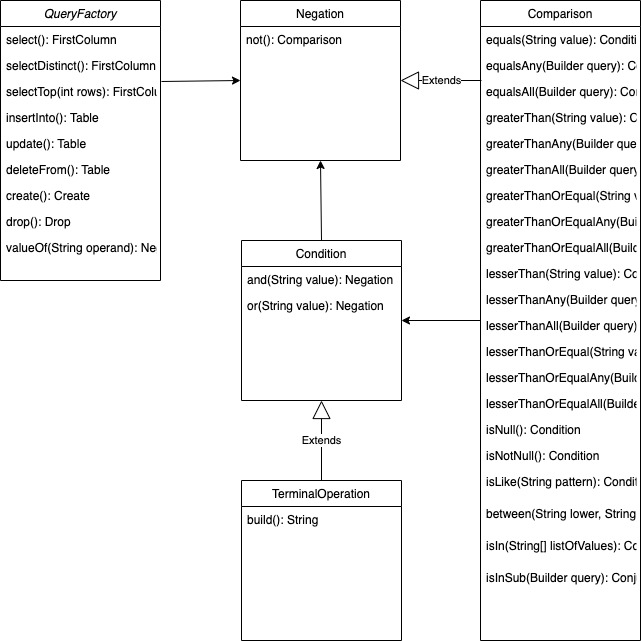
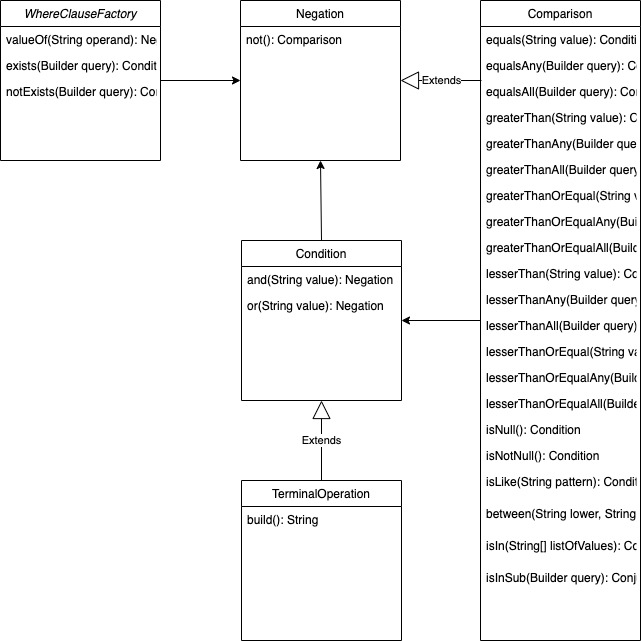
refactored WHERE clause builder to its own factory and added EXISTS operator

Changed region(s): [[0.0, 0.0, 0.2496, 0.312], [0.0, 0.3432, 0.2496, 0.4056]]

diff --git a/src/test/java/builder/statement/clause/where/ComparisonTest.java b/src/test/java/builder/statement/clause/where/ComparisonTest.java
@@ -8,7 +8,7 @@ import org.junit.Test;
 
 import java.sql.SQLException;
 
-import static factory.QueryFactory.valueOf;
+import static factory.WhereClauseFactory.*;
 import static junit.framework.Assert.assertEquals;
 
 public class ComparisonTest extends DatabaseTestBaseClass {
@@ -424,6 +424,34 @@ public class ComparisonTest extends DatabaseTestBaseClass {
                 .build();
 
         assertEquals("SELECT firstname FROM person WHERE lastname IN (SELECT * FROM student WHERE age > 20)", query);
+        assertThatQueryIsValidSQL(query);
+    }
+
+    @Test
+    public void testConditionExists() throws SQLException {
+        String query = this.table
+                .where(exists(QueryFactory
+                        .select()
+                        .column("*")
+                        .from().table("student")
+                        .where(valueOf("age").greaterThan(20))))
+                .build();
+
+        assertEquals("SELECT firstname FROM person WHERE EXISTS (SELECT * FROM student WHERE age > 20)", query);
+        assertThatQueryIsValidSQL(query);
+    }
+
+    @Test
+    public void testConditionNotExists() throws SQLException {
+        String query = this.table
+                .where(notExists(QueryFactory
+                        .select()
+                        .column("*")
+                        .from().table("student")
+                        .where(valueOf("age").greaterThan(20))))
+                .build();
+
+        assertEquals("SELECT firstname FROM person WHERE NOT EXISTS (SELECT * FROM student WHERE age > 20)", query);
         assertThatQueryIsValidSQL(query);
     }
 }

diff --git a/src/main/java/factory/WhereClauseFactory.java b/src/main/java/factory/WhereClauseFactory.java
@@ -1,0 +1,20 @@
+package factory;
+
+import builder.Builder;
+import builder.clause.where.Condition;
+import builder.clause.where.Negation;
+
+public class WhereClauseFactory {
+
+    public static Negation valueOf(String operand) {
+        return new Negation(new StringBuilder(" WHERE " + operand));
+    }
+
+    public static Condition exists(Builder query) {
+        return new Condition(new StringBuilder(" WHERE EXISTS (" + query.build() + ")"));
+    }
+
+    public static Condition notExists(Builder query) {
+        return new Condition(new StringBuilder(" WHERE NOT EXISTS (" + query.build() + ")"));
+    }
+}

diff --git a/src/main/java/factory/QueryFactory.java b/src/main/java/factory/QueryFactory.java
@@ -39,10 +39,6 @@ public class QueryFactory {
         return new Drop(new StringBuilder("DROP "));
     }
 
-    public static Negation valueOf(String operand) {
-        return new Negation(new StringBuilder(" WHERE " + operand));
-    }
-
     private static FirstColumn selectClause(String clause) {
         return new FirstColumn(new StringBuilder(clause));
     }

diff --git a/src/test/java/builder/PerformanceTest.java b/src/test/java/builder/PerformanceTest.java
@@ -7,7 +7,7 @@ import org.junit.Test;
 import org.slf4j.Logger;
 import org.slf4j.LoggerFactory;
 
-import static factory.QueryFactory.valueOf;
+import static factory.WhereClauseFactory.valueOf;
 import static org.junit.Assert.assertEquals;
 import static org.junit.Assert.assertTrue;
 

diff --git a/src/test/java/builder/statement/clause/where/ConditionTest.java b/src/test/java/builder/statement/clause/where/ConditionTest.java
@@ -8,7 +8,7 @@ import org.junit.Test;
 
 import java.sql.SQLException;
 
-import static factory.QueryFactory.valueOf;
+import static factory.WhereClauseFactory.valueOf;
 import static junit.framework.Assert.assertEquals;
 
 public class ConditionTest extends DatabaseTestBaseClass {

diff --git a/src/test/java/builder/statement/clause/where/NegationTest.java b/src/test/java/builder/statement/clause/where/NegationTest.java
@@ -8,7 +8,7 @@ import org.junit.Test;
 
 import java.sql.SQLException;
 
-import static factory.QueryFactory.valueOf;
+import static factory.WhereClauseFactory.valueOf;
 import static junit.framework.Assert.assertEquals;
 
 public class NegationTest extends DatabaseTestBaseClass {

diff --git a/src/test/java/builder/statement/select/table/TableTest.java b/src/test/java/builder/statement/select/table/TableTest.java
@@ -8,7 +8,7 @@ import org.junit.Test;
 
 import java.sql.SQLException;
 
-import static factory.QueryFactory.valueOf;
+import static factory.WhereClauseFactory.valueOf;
 import static junit.framework.Assert.assertEquals;
 
 public class TableTest extends DatabaseTestBaseClass {

diff --git a/src/test/java/builder/statement/select/order/GroupByTest.java b/src/test/java/builder/statement/select/order/GroupByTest.java
@@ -9,7 +9,7 @@ import org.junit.Test;
 
 import java.sql.SQLException;
 
-import static factory.QueryFactory.valueOf;
+import static factory.WhereClauseFactory.valueOf;
 import static org.junit.Assert.assertEquals;
 
 public class GroupByTest extends DatabaseTestBaseClass {

diff --git a/src/test/java/builder/statement/select/order/OrderByTest.java b/src/test/java/builder/statement/select/order/OrderByTest.java
@@ -8,7 +8,7 @@ import org.junit.Test;
 
 import java.sql.SQLException;
 
-import static factory.QueryFactory.valueOf;
+import static factory.WhereClauseFactory.valueOf;
 import static org.junit.Assert.assertEquals;
 
 public class OrderByTest extends DatabaseTestBaseClass {

diff --git a/src/test/java/builder/statement/delete/DeleteTest.java b/src/test/java/builder/statement/delete/DeleteTest.java
@@ -6,7 +6,7 @@ import org.junit.Test;
 
 import java.sql.SQLException;
 
-import static factory.QueryFactory.valueOf;
+import static factory.WhereClauseFactory.valueOf;
 import static org.junit.Assert.assertEquals;
 
 public class DeleteTest extends DatabaseTestBaseClass {

diff --git a/src/test/java/builder/statement/insert/InsertTest.java b/src/test/java/builder/statement/insert/InsertTest.java
@@ -6,7 +6,7 @@ import org.junit.Test;
 
 import java.sql.SQLException;
 
-import static factory.QueryFactory.valueOf;
+import static factory.WhereClauseFactory.valueOf;
 import static org.junit.Assert.assertEquals;
 
 public class InsertTest extends DatabaseTestBaseClass {

diff --git a/src/test/java/builder/statement/update/UpdateTest.java b/src/test/java/builder/statement/update/UpdateTest.java
@@ -6,7 +6,7 @@ import org.junit.Test;
 
 import java.sql.SQLException;
 
-import static factory.QueryFactory.valueOf;
+import static factory.WhereClauseFactory.valueOf;
 import static org.junit.Assert.assertEquals;
 
 public class UpdateTest extends DatabaseTestBaseClass {
